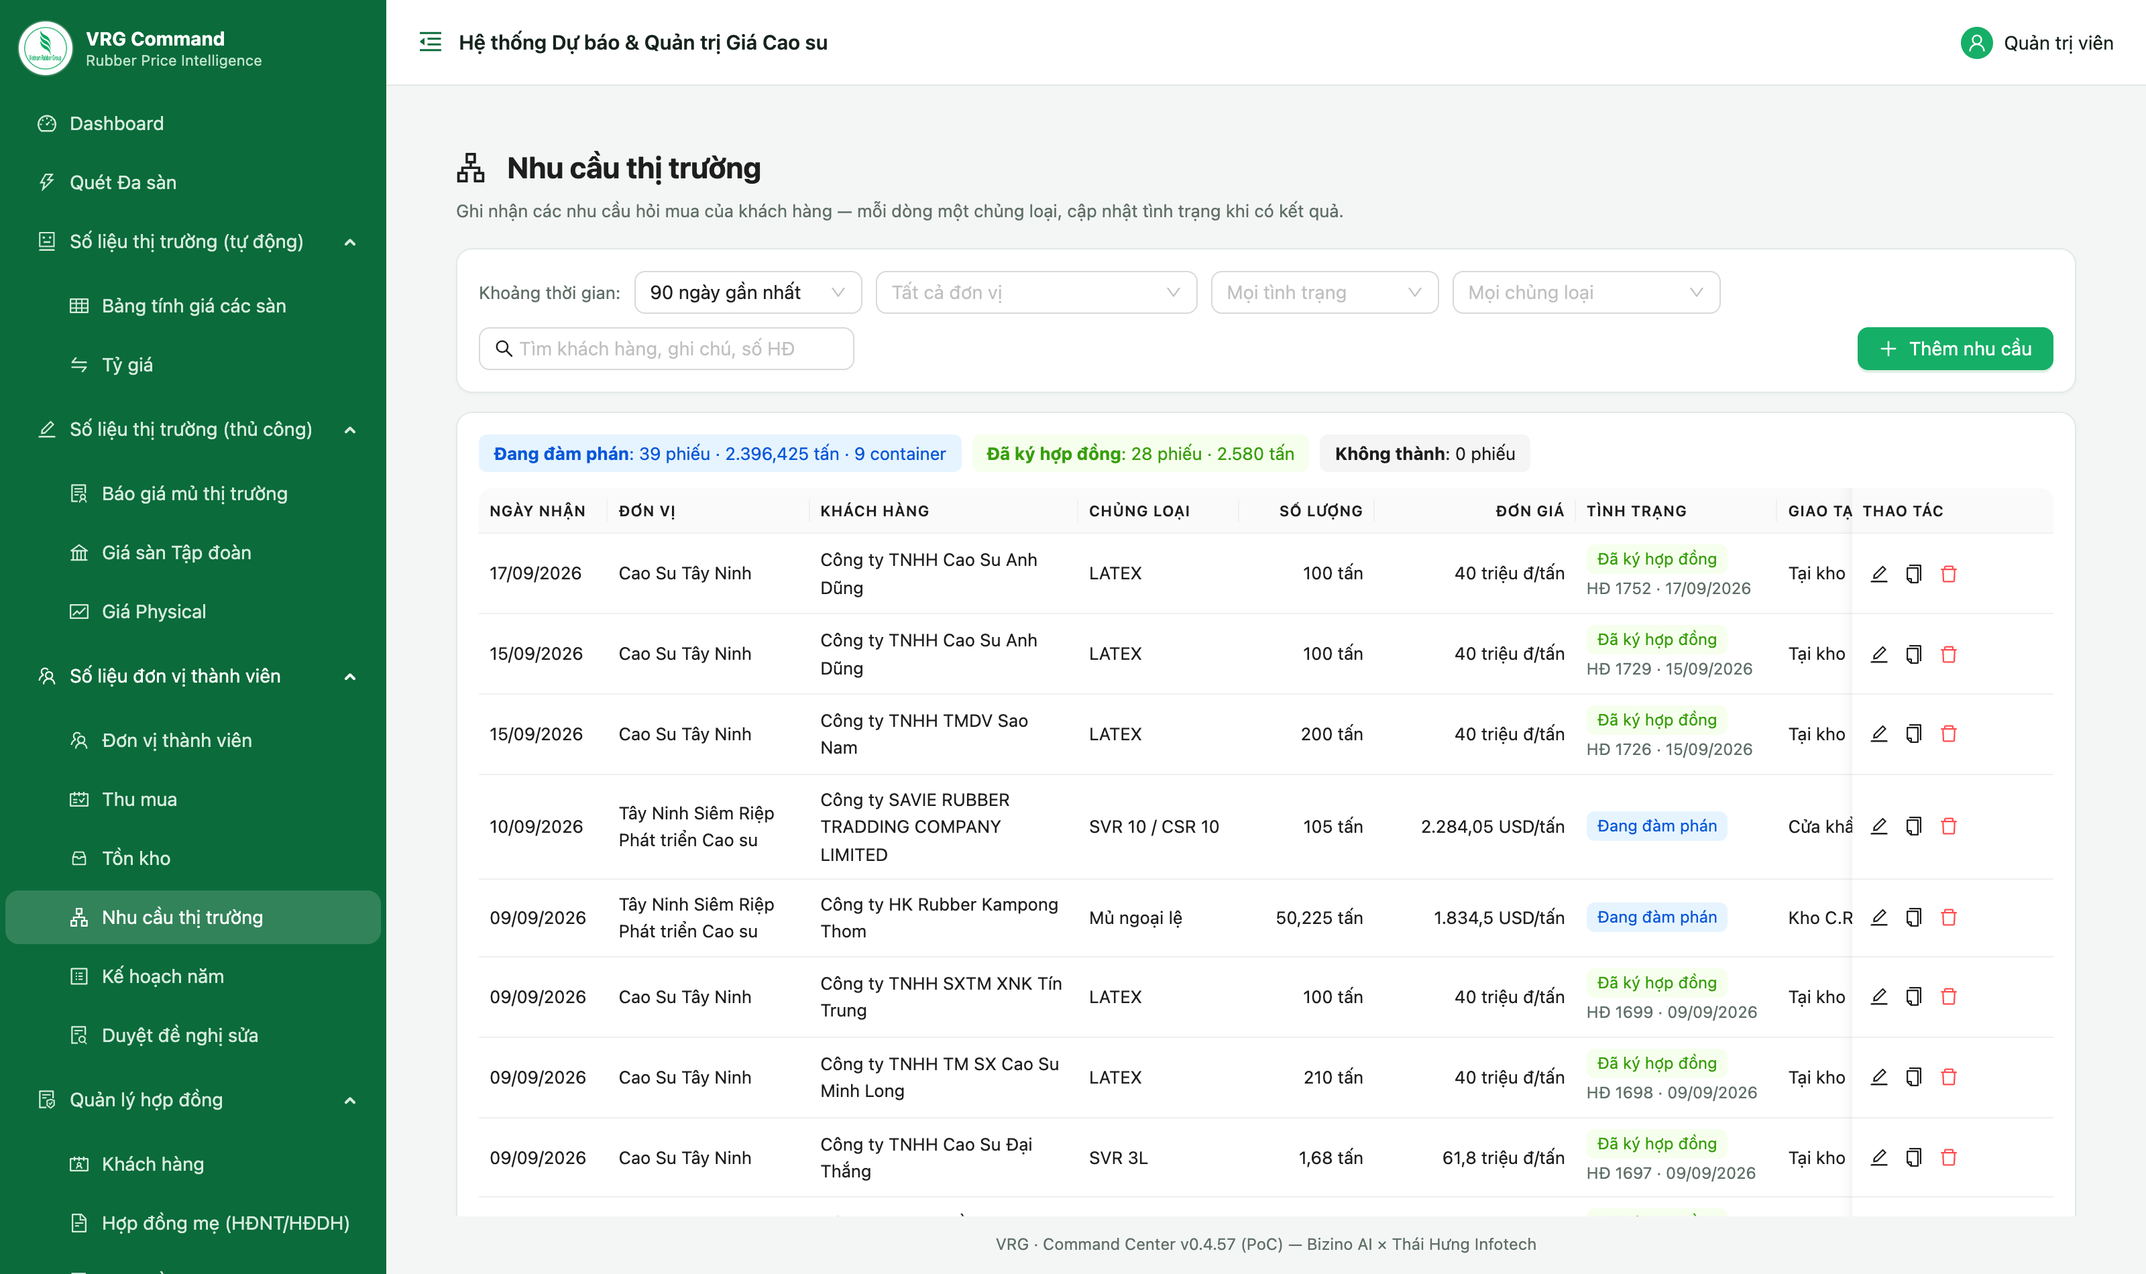
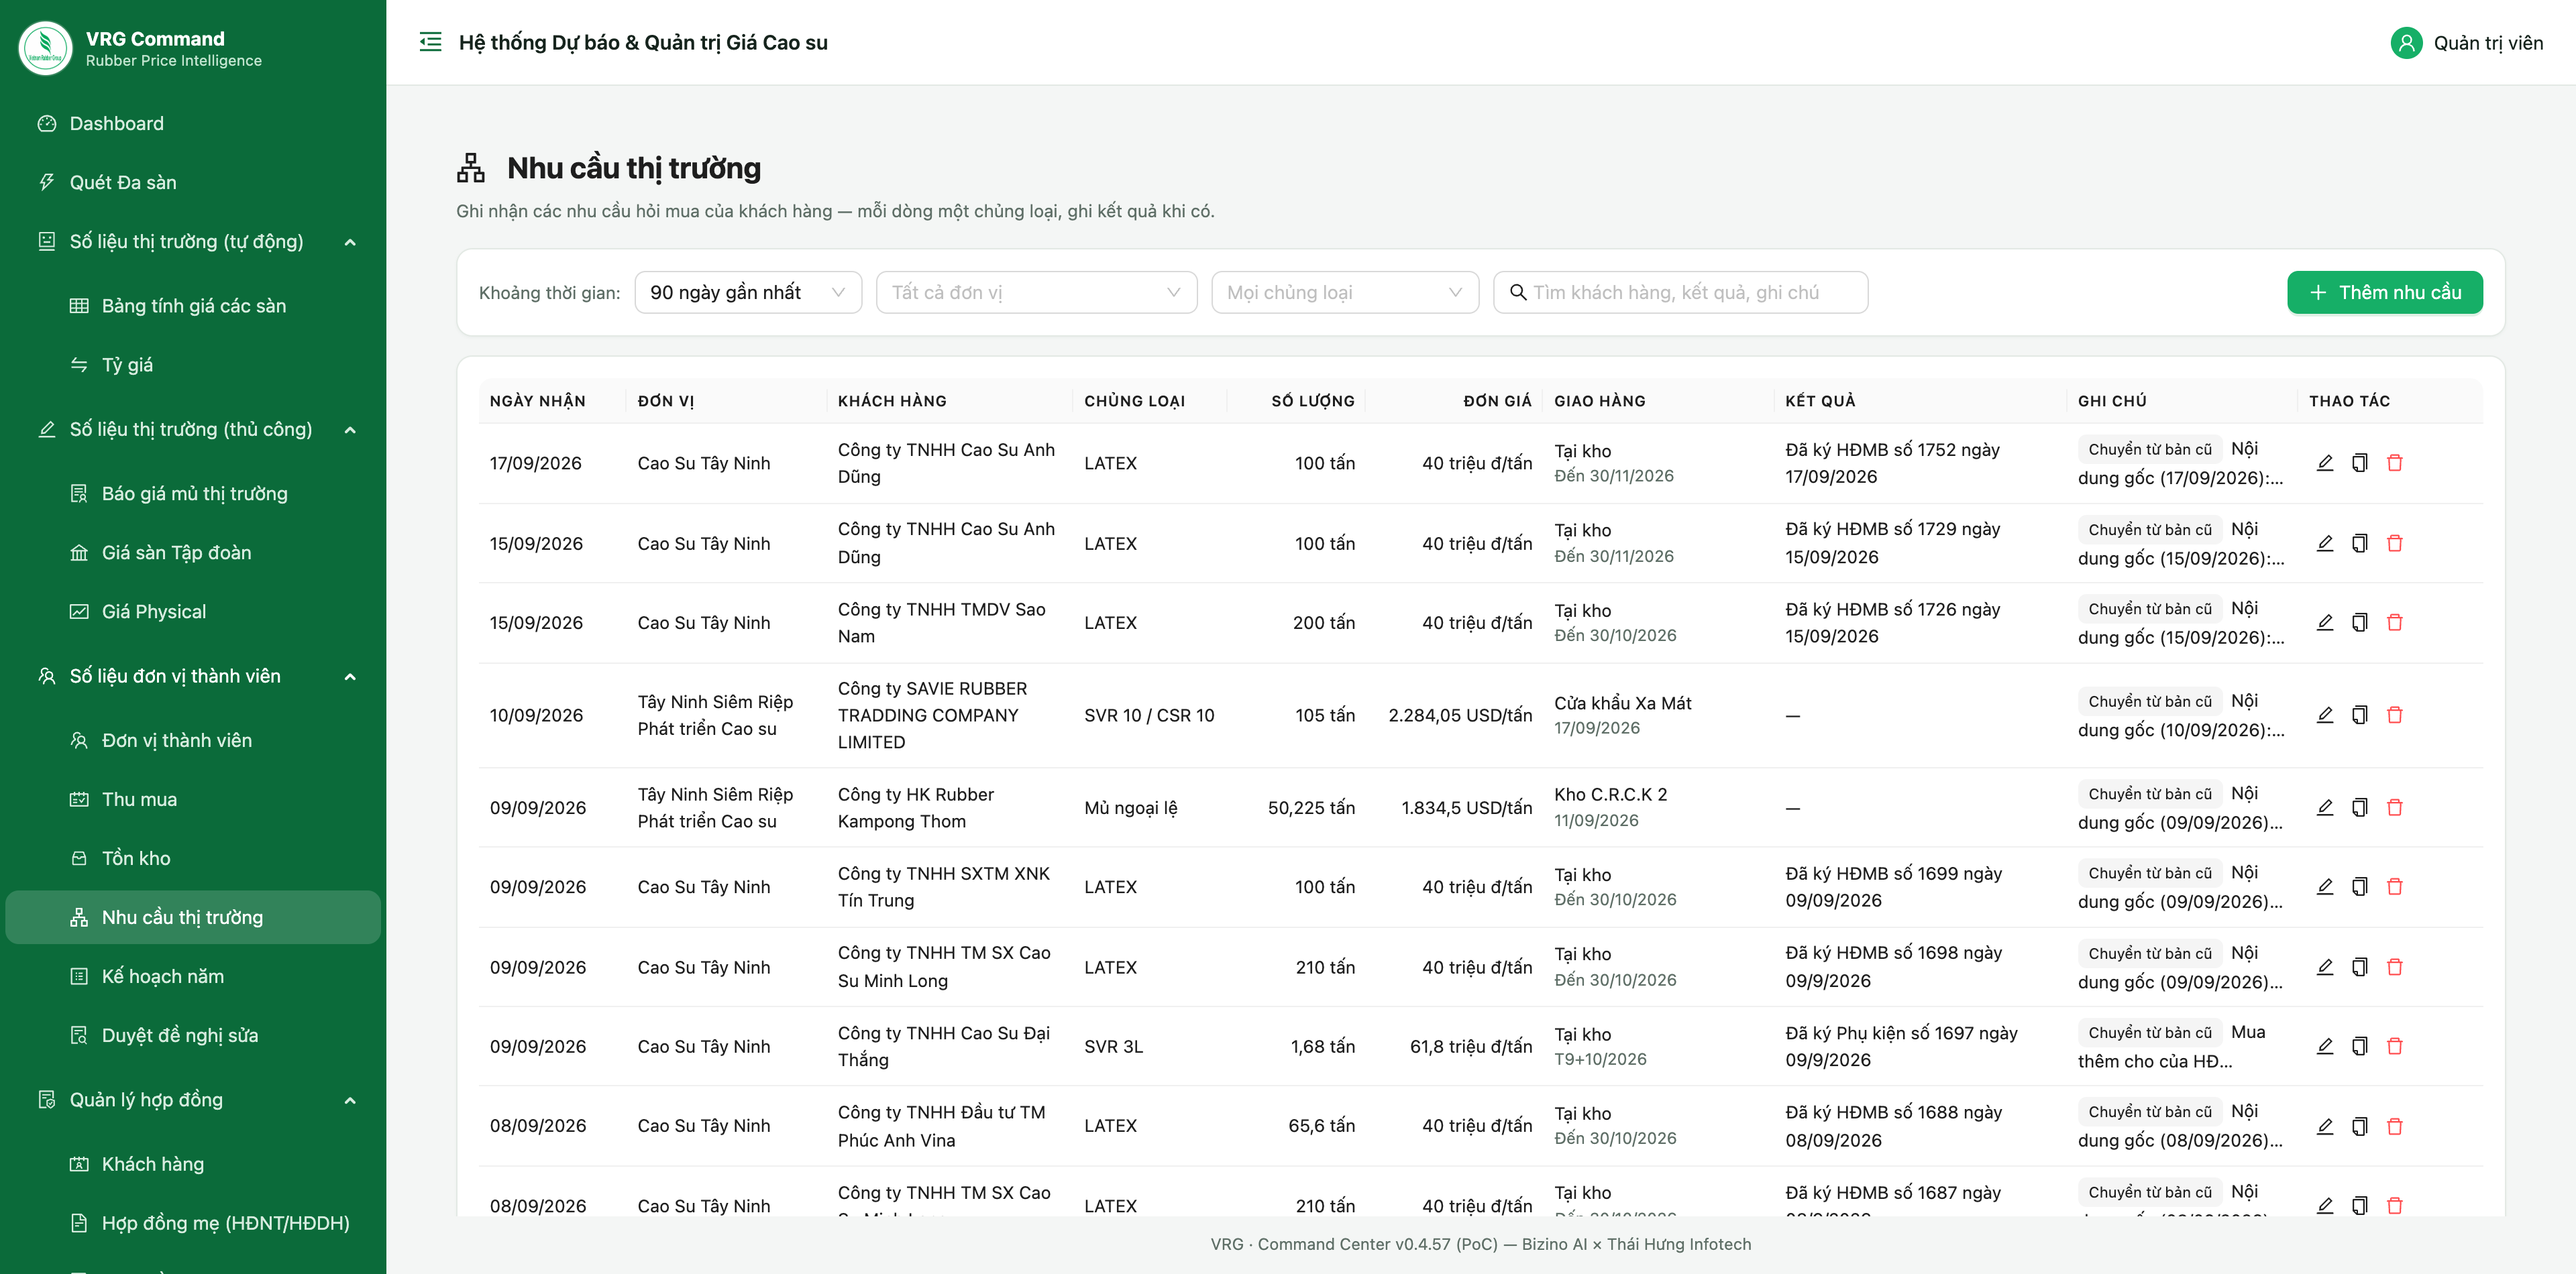
docs(plans): record market demand simplification

diff --git a/docs/project/project-changelog.md b/docs/project/project-changelog.md
@@ -6,15 +6,15 @@ Ghi nhận thay đổi đáng kể. Định dạng theo [Keep a Changelog](https
 ### Added
 - **Nhu cầu thị trường nhập theo phiếu có trường** (17/09/2026) — thay cho ô chữ tự do theo ngày.
   - Mỗi dòng là **một nhu cầu của một chủng loại**: ngày nhận · khách hàng · chủng loại · số lượng
-    (tấn/container) · đơn giá (triệu đ/tấn hoặc USD/tấn, có đánh dấu giá tạm tính) · giao tại ·
-    thời gian giao · tình trạng · số hợp đồng và ngày ký · ghi chú. Khách hỏi 2 loại thì bấm
-    *Nhân bản*.
-  - **Tình trạng** (Đang đàm phán · Đã ký hợp đồng · Không thành) cập nhật về sau, không phải nhập
-    lại mỗi ngày; tình trạng, số HĐ, ngày ký và ghi chú **sửa được cả khi ngày nhận đã khoá**. Sửa
-    nội dung khác của phiếu cũ thì gửi *Đề nghị sửa số liệu*.
-  - Màn tổng hợp lọc theo đơn vị, tình trạng, chủng loại, tìm theo khách/ghi chú/số HĐ, có dải cộng
-    tổng số phiếu và số tấn theo tình trạng.
+    (tấn/container) · đơn giá (triệu đ/tấn hoặc USD/tấn) · giao tại · thời gian giao · kết quả ·
+    ghi chú. Khách hỏi 2 loại thì bấm *Nhân bản*.
+  - **Thời gian giao** và **Kết quả** gõ tự do (vd "Đến 30/11/2026", "Đã ký HĐMB số 1752 ngày
+    17/09/2026"). Kết quả và ghi chú **sửa được cả khi ngày nhận đã khoá**; sửa nội dung khác của
+    phiếu cũ thì gửi *Đề nghị sửa số liệu*.
+  - Màn tổng hợp lọc theo đơn vị, chủng loại, tìm theo khách/kết quả/ghi chú.
   - Dữ liệu cũ (34 bản ghi chữ, 6 đơn vị) chuyển thành 67 phiếu; nguyên văn cũ giữ trong Ghi chú.
+  - Bản 0.4.74 từng có tình trạng · số hợp đồng · ngày ký · giá tạm tính · giao từ–đến ngày; chủ dự án
+    thấy rắc rối nên rút gọn ngay trong ngày — số đã nhập được gộp thành chữ khi khởi động.
 - **Lãnh đạo đơn vị xem Cảnh báo bất thường của đơn vị mình** (17/09/2026) — mục mới ngay dưới
   *Hỗ trợ & Thông báo* trong menu lãnh đạo đơn vị: thấy nhân viên nhập liệu đang sai/thiếu gì (giá
   bán hoặc giá mủ sai đơn vị tính · chưa nộp biểu · ngừng nộp nhiều ngày · thiếu đơn giá · kế hoạch

diff --git a/plans/260917-nhu-cau-thi-truong-theo-truong/plan.md b/plans/260917-nhu-cau-thi-truong-theo-truong/plan.md
@@ -5,18 +5,20 @@
 > mủ nguyên liệu theo kỳ).
 
 ## Quyết định đã chốt (17/09/2026)
-1. **Mỗi nhu cầu là một PHIẾU có tình trạng** (Đang đàm phán · Đã ký hợp đồng · Không thành), cập
-   nhật về sau — không nhập lại mỗi ngày. Cập nhật **tình trạng · số HĐ · ngày ký · ghi chú** được
-   MIỄN cửa sổ nhập liệu (cửa sổ đơn vị đang = 0).
+1. **Mỗi nhu cầu là một PHIẾU**, cập nhật kết quả về sau — không nhập lại mỗi ngày. Cập nhật
+   **kết quả · ghi chú** được MIỄN cửa sổ nhập liệu (cửa sổ đơn vị đang = 0).
 2. **Mỗi dòng MỘT chủng loại** (khách hỏi 2 loại → 2 dòng, có nút Nhân bản).
-3. Kết quả ký HĐ: **gõ tay số HĐ + ngày ký** (không liên kết module Hợp đồng).
-4. **Chuyển hết dữ liệu cũ sang trường**, giữ nguyên văn cũ trong Ghi chú; gửi chủ dự án bảng đối
-   chiếu TRƯỚC khi ghi prod.
+3. **Chuyển hết dữ liệu cũ sang trường**, giữ nguyên văn cũ trong Ghi chú; gửi chủ dự án bảng đối
+   chiếu TRƯỚC khi ghi prod (đã ghi prod ở 0.4.74: 67 phiếu).
+4. **RÚT GỌN** (chủ dự án chốt sau khi xem bản 0.4.74 — thấy tình trạng/số HĐ/ngày ký/từ–đến ngày quá
+   rắc rối): **Thời gian giao** và **Kết quả** là Ô CHỮ tự do; bỏ tình trạng, số HĐ, ngày ký, giá
+   tạm tính, cặp ngày giao, dải tổng hợp và bộ lọc theo tình trạng. Dữ liệu đã có được gộp thành chữ
+   khi khởi động (`db.py`), phiếu chuyển đổi được ghi lại theo lời gốc bằng `convert.py --refresh`.
 
 ## Trường
 Ngày nhận* · Khách hàng* · Chủng loại* (danh mục `UNIT_GRADES`) · Số lượng + đơn vị (tấn/container)
-· Đơn giá + loại tiền (VND = triệu đ/tấn · USD/tấn) + giá tạm tính · Giao tại · Giao từ–đến ngày
-· Tình trạng* · Số HĐ + ngày ký (bắt buộc khi Đã ký) · Ghi chú.
+· Đơn giá + loại tiền (VND = triệu đ/tấn · USD/tấn) · Giao tại · Thời gian giao (chữ) · Kết quả
+(chữ, trống = chưa có) · Ghi chú.
 
 ## Nhánh làm song song (file KHÔNG giao nhau)
 | Nhánh | Người làm | File |
